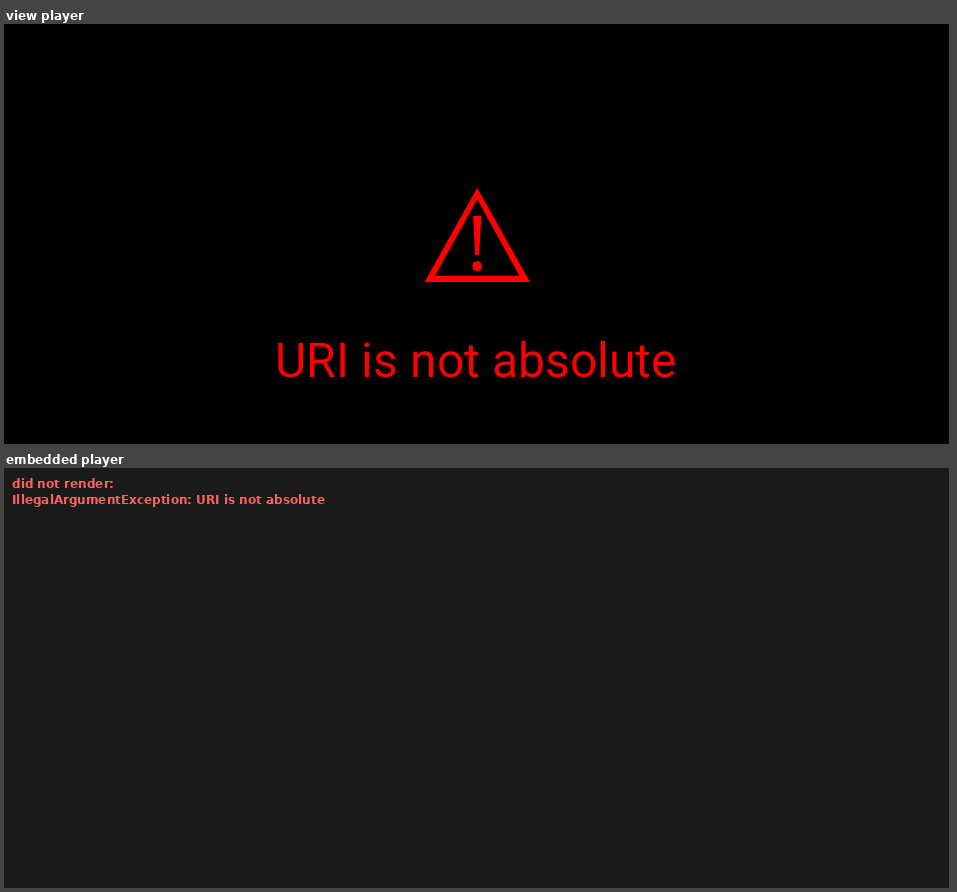
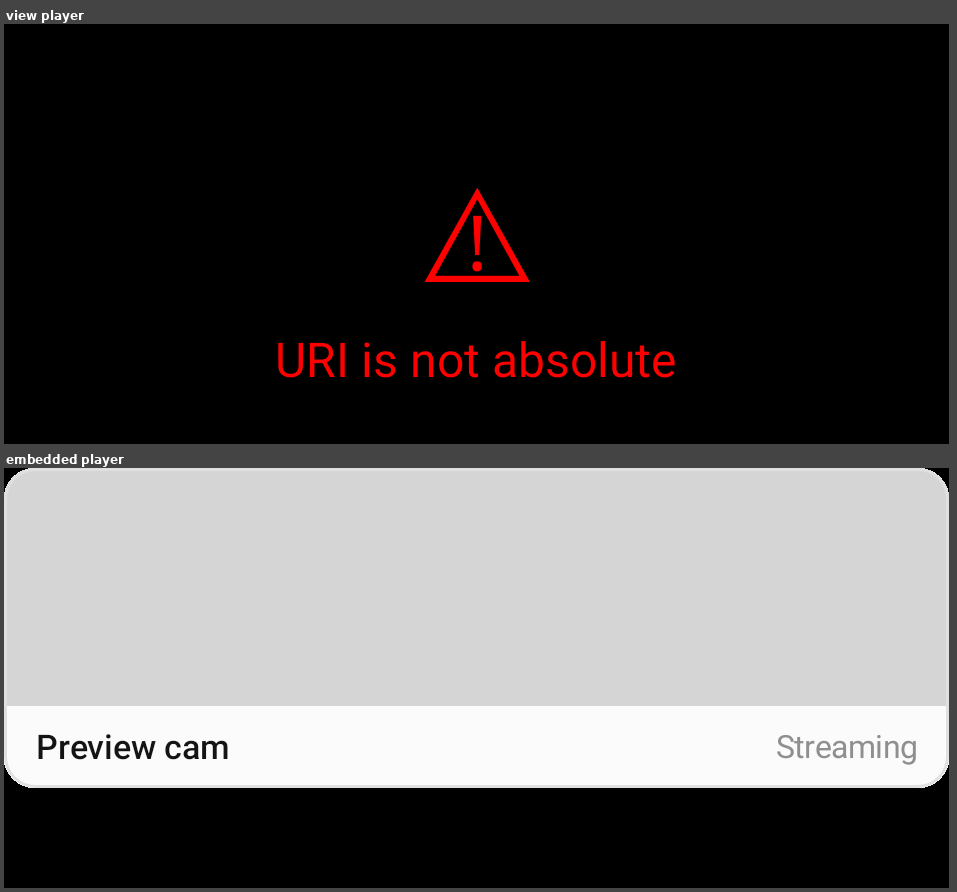
fix(rc-embedded-player): clip inside layout modifiers, not outside them
The switch thumb rendered square (#3992). Modifier.roundedClipRect prepended
the clip to the whole accumulated chain, which put it ahead of
PaddingModifierOperation as well as ahead of the draw. On a thumb built as
padding(35.4dp, 7.9dp).size(16.dp) then clip then background, that clipped the
padded 51x24dp box while the background painted the 16x16dp content well inside
it — so the rounded shape never touched the thing it was meant to round. The
track beside it carries no padding, which is exactly why it looked correct while
the thumb did not.

A Modifier.clip clips whatever the modifiers after it draw, so list order
already puts the draw inside: either an explicit DrawContentOperation later in
the list, or the implicit draw toModifier appends for a component with no
marker. The one ordering list order cannot serve is a DrawContentOperation
before the clip, which is what the prepend was defending; that case is kept
behind hoistPastDrawContent. Scanning the 164-document catalog finds no
component with that ordering, so the branch is retained because the wire format
permits it rather than because anything observed needs it.

Measured over the whole catalog, both lanes on this commit: documents with no
differing pixels go 16 -> 34 and the 1-5% band 58 -> 40. 21 documents improve,
none regress, and every toggle fixture becomes byte-identical with the view
player.

The evidence directory is regenerated by its own script, so the committed
[…]

diff --git a/third_party/rc-embedded-player/src/main/kotlin/androidx/compose/remote/player/compose/embedded/modifier/ClipModifier.kt b/third_party/rc-embedded-player/src/main/kotlin/androidx/compose/remote/player/compose/embedded/modifier/ClipModifier.kt
@@ -44,8 +44,15 @@ internal fun Modifier.clipRect(op: ClipRectModifierOperation): Modifier {
   return this.clip(RectangleShape)
 }
 
+/**
+ * @param hoistPastDrawContent whether a `DrawContentOperation` has already been folded into the
+ *   chain. Only then is the clip moved to the front — see the note at the return.
+ */
 @Composable
-internal fun Modifier.roundedClipRect(op: RoundedClipRectModifierOperation): Modifier {
+internal fun Modifier.roundedClipRect(
+  op: RoundedClipRectModifierOperation,
+  hoistPastDrawContent: Boolean = false,
+): Modifier {
   val data = op.readDataReflection()
   val behavior = LocalCoreDocument.current.densityBehavior
   val shape =
@@ -57,10 +64,25 @@ internal fun Modifier.roundedClipRect(op: RoundedClipRectModifierOperation): Mod
       densityBehavior = behavior,
     )
 
-  // remote-core applies the rounded clip to the component's complete paint output. DrawContent
-  // precedes this operation in the wire modifier list, but appending Compose's clip would leave
-  // that draw node outside the clip. Prepend it so generated background paths are clipped too.
-  return Modifier.clip(shape).then(this)
+  // remote-core applies the rounded clip to the component's complete paint output, so the clip has
+  // to sit *outside* the draw — but *inside* the layout modifiers, at the position the wire list
+  // gives it.
+  //
+  // This used to prepend unconditionally, which put the clip ahead of `PaddingModifierOperation`
+  // too. On a switch thumb — `padding(35.4dp, 7.9dp).size(16.dp)` then this clip then a background
+  // — that clipped the padded 51x24dp box while the background painted the 16x16dp content well
+  // inside it, so the rounded shape never touched the thing it was meant to round and the thumb
+  // rendered square (compose-ai-tools#3992). The track beside it carries no padding, which is
+  // exactly why it looked correct and the thumb did not.
+  //
+  // A `Modifier.clip` clips whatever the modifiers *after* it draw, so list order already puts the
+  // draw inside: an explicit `DrawContentOperation` later in the list, or the implicit draw
+  // `toModifier` appends when a component carries no marker. The one case list order cannot serve
+  // is a `DrawContentOperation` that comes *before* this operation — there the clip still has to be
+  // hoisted past it, and [hoistPastDrawContent] says so. No document in the 164-document catalog
+  // sweep exercises that branch; it is kept because the wire format permits it, not because
+  // anything observed needs it.
+  return if (hoistPastDrawContent) Modifier.clip(shape).then(this) else this.clip(shape)
 }
 
 internal data class RemoteRoundedClipShape(

diff --git a/third_party/rc-embedded-player/src/main/kotlin/androidx/compose/remote/player/compose/embedded/RcPlayerModifiers.kt b/third_party/rc-embedded-player/src/main/kotlin/androidx/compose/remote/player/compose/embedded/RcPlayerModifiers.kt
@@ -96,7 +96,8 @@ internal fun ComponentModifiers.toModifier(drawOpsList: List<Operation>? = null)
         is BackgroundModifierOperation -> modifier.background(op)
         is OffsetModifierOperation -> modifier.offset(op)
         is ClipRectModifierOperation -> modifier.clipRect(op)
-        is RoundedClipRectModifierOperation -> modifier.roundedClipRect(op)
+        is RoundedClipRectModifierOperation ->
+          modifier.roundedClipRect(op, hoistPastDrawContent = drawContentProcessed)
         is ZIndexModifierOperation -> modifier.zIndex(op)
         is GraphicsLayerModifierOperation -> modifier.graphicsLayer(op)
         is RippleModifierOperation -> modifier.ripple(op)

diff --git a/scripts/rc-lane-ab/compose_ab.py b/scripts/rc-lane-ab/compose_ab.py
@@ -34,7 +34,7 @@ IMAGES = [
     (
         "picture-entity-app-mode.png",
         ["PictureEntity_AppMode_Light_picture_entity_app_mode_light-5174ea1f"],
-        "the embedded lane renders nothing at all (issue #3993)",
+        "an unloadable image now costs one slot, not the card (issue #3993)",
     ),
 ]
 

diff --git a/renders/rc-embedded-lane-ab/README.md b/renders/rc-embedded-lane-ab/README.md
@@ -1,6 +1,6 @@
 # Embedded vs view player A/B — issue #3936 step 2
 
-Full re-run after the `ColorAttribute` fix (#3977): all 164 `.rc` documents in the
+Re-run after each embedded-player fix: all 164 `.rc` documents in the
 `homeassistant-remotecompose` catalog, both lanes, same commit, same Robolectric harness
 (`RcEmbeddedRenderHarness` and `RcViewPlayerRenderHarness`), so the document is a controlled
 variable and every difference is the interpreter.
@@ -8,13 +8,18 @@ variable and every difference is the interpreter.
 Scored with pixelmatch at `threshold: 0.1` and its default anti-aliasing detection — the same
 library and settings `rc-compare.mjs` already uses, rather than a fresh ad-hoc metric.
 
-| result | documents |
-| --- | --- |
-| no differing pixels | 16 |
-| differing, under 1% of pixels | 86 |
-| differing, 1–5% | 59 |
-| differing, over 5% | 1 |
-| **unrendered on the embedded lane** | **2** |
+| result | after #3977 | after #3995, #4000 and the clip fix |
+| --- | --- | --- |
+| no differing pixels | 16 | **34** |
+| differing, under 1% of pixels | 86 | 87 |
+| differing, 1–5% | 59 | **40** |
+| differing, over 5% | 1 | 3 |
+| unrendered on the embedded lane | 2 | **0** |
+
+The "over 5%" column grew because the two `PictureEntity_AppMode` documents now *render* on the
+embedded lane instead of throwing, and they score as almost completely different from the view
+lane — which loses the whole card to an error panel. That is the embedded player being right and
+the score being measured against the wrong reference; see below.
 
 ## What the differences actually are
 
@@ -29,26 +34,37 @@ An exact-inequality pixel count cannot separate this from a real defect, and an 
 cannot either, because glyph strokes are several pixels wide and high contrast. That is why the
 numbers above use pixelmatch's AA detection.
 
-**Two real defects came out of the sweep**, both filed separately:
+**Two real defects came out of the sweep**, both since fixed:
 
-### Switch thumb renders square
+### Switch thumb rendered square — fixed
 
 ![toggle thumb](toggle-thumb.png)
 
-The view player slides a circular thumb; the embedded player draws a square one. The thumb carries
-`RoundedClipRectModifierOperation [46][46] [46][46] [46][46] [46][46]` — radii by *variable
-reference*, where `FloatExpression[46] = ([44] [45] min 2.0 /)` and `[44]`/`[45]` are
-`ComponentValue`s of the track. The track's own clip uses literal radii (`28.875`) and is correct in
-both lanes. The apparent rounding on the thumb's trailing edge is the track's clip, not the thumb's.
+Both rows are now identical. The cause was not the radius — that was a red herring I filed the
+issue on, and instrumenting it is what disproved it. `Modifier.roundedClipRect` prepended the clip
+to the *whole* accumulated chain, which put it ahead of `PaddingModifierOperation` as well as the
+draw. On a thumb built as `padding(35.4dp, 7.9dp).size(16.dp)` + clip + background, the clip wrapped
+the padded 51×24dp box while the background painted the 16×16dp content well inside it, so the
+rounded shape never touched what it was meant to round. The track beside it carries no padding,
+which is exactly why it looked correct and the thumb did not.
 
-### An unresolvable image aborts the whole document
+The radius *was* also resolving wrong — `0.5` instead of `22.0`, because `GraphContext` could not
+see `ComponentValue`s — and #3995 fixed that. It changed no pixels: `roundedRectRadiusScale` clamps
+both values to about the same thing on the box in question.
+
+### An unresolvable image aborted the whole document — fixed by #4000
 
 ![picture entity](picture-entity-app-mode.png)
 
-`PictureEntity_AppMode` (light and dark) throws `IllegalArgumentException: URI is not absolute` out
+`PictureEntity_AppMode` (light and dark) threw `IllegalArgumentException: URI is not absolute` out
 of `AndroidBitmapLoader.loadBitmap`, reached from `BitmapData.apply` during
-`CoreDocument.initializeContext`. Both players fail to load the image — the view player renders its
-own error card, the embedded player propagates the exception and renders nothing.
+`CoreDocument.initializeContext`, and rendered nothing at all.
+
+Neither player can load the image — it is referenced by a relative URI and AndroidX's loader calls
+`URI.toURL()` on it. What differs now is the cost: the embedded player draws the rest of the card
+(its title and state) with an empty image slot, while the view player replaces the entire card with
+a black error panel. **This is the one document where a large pixel difference means the embedded
+lane is more correct, not less** — a caution about reading the table above as a parity score.
 
 ## Regenerating
 
